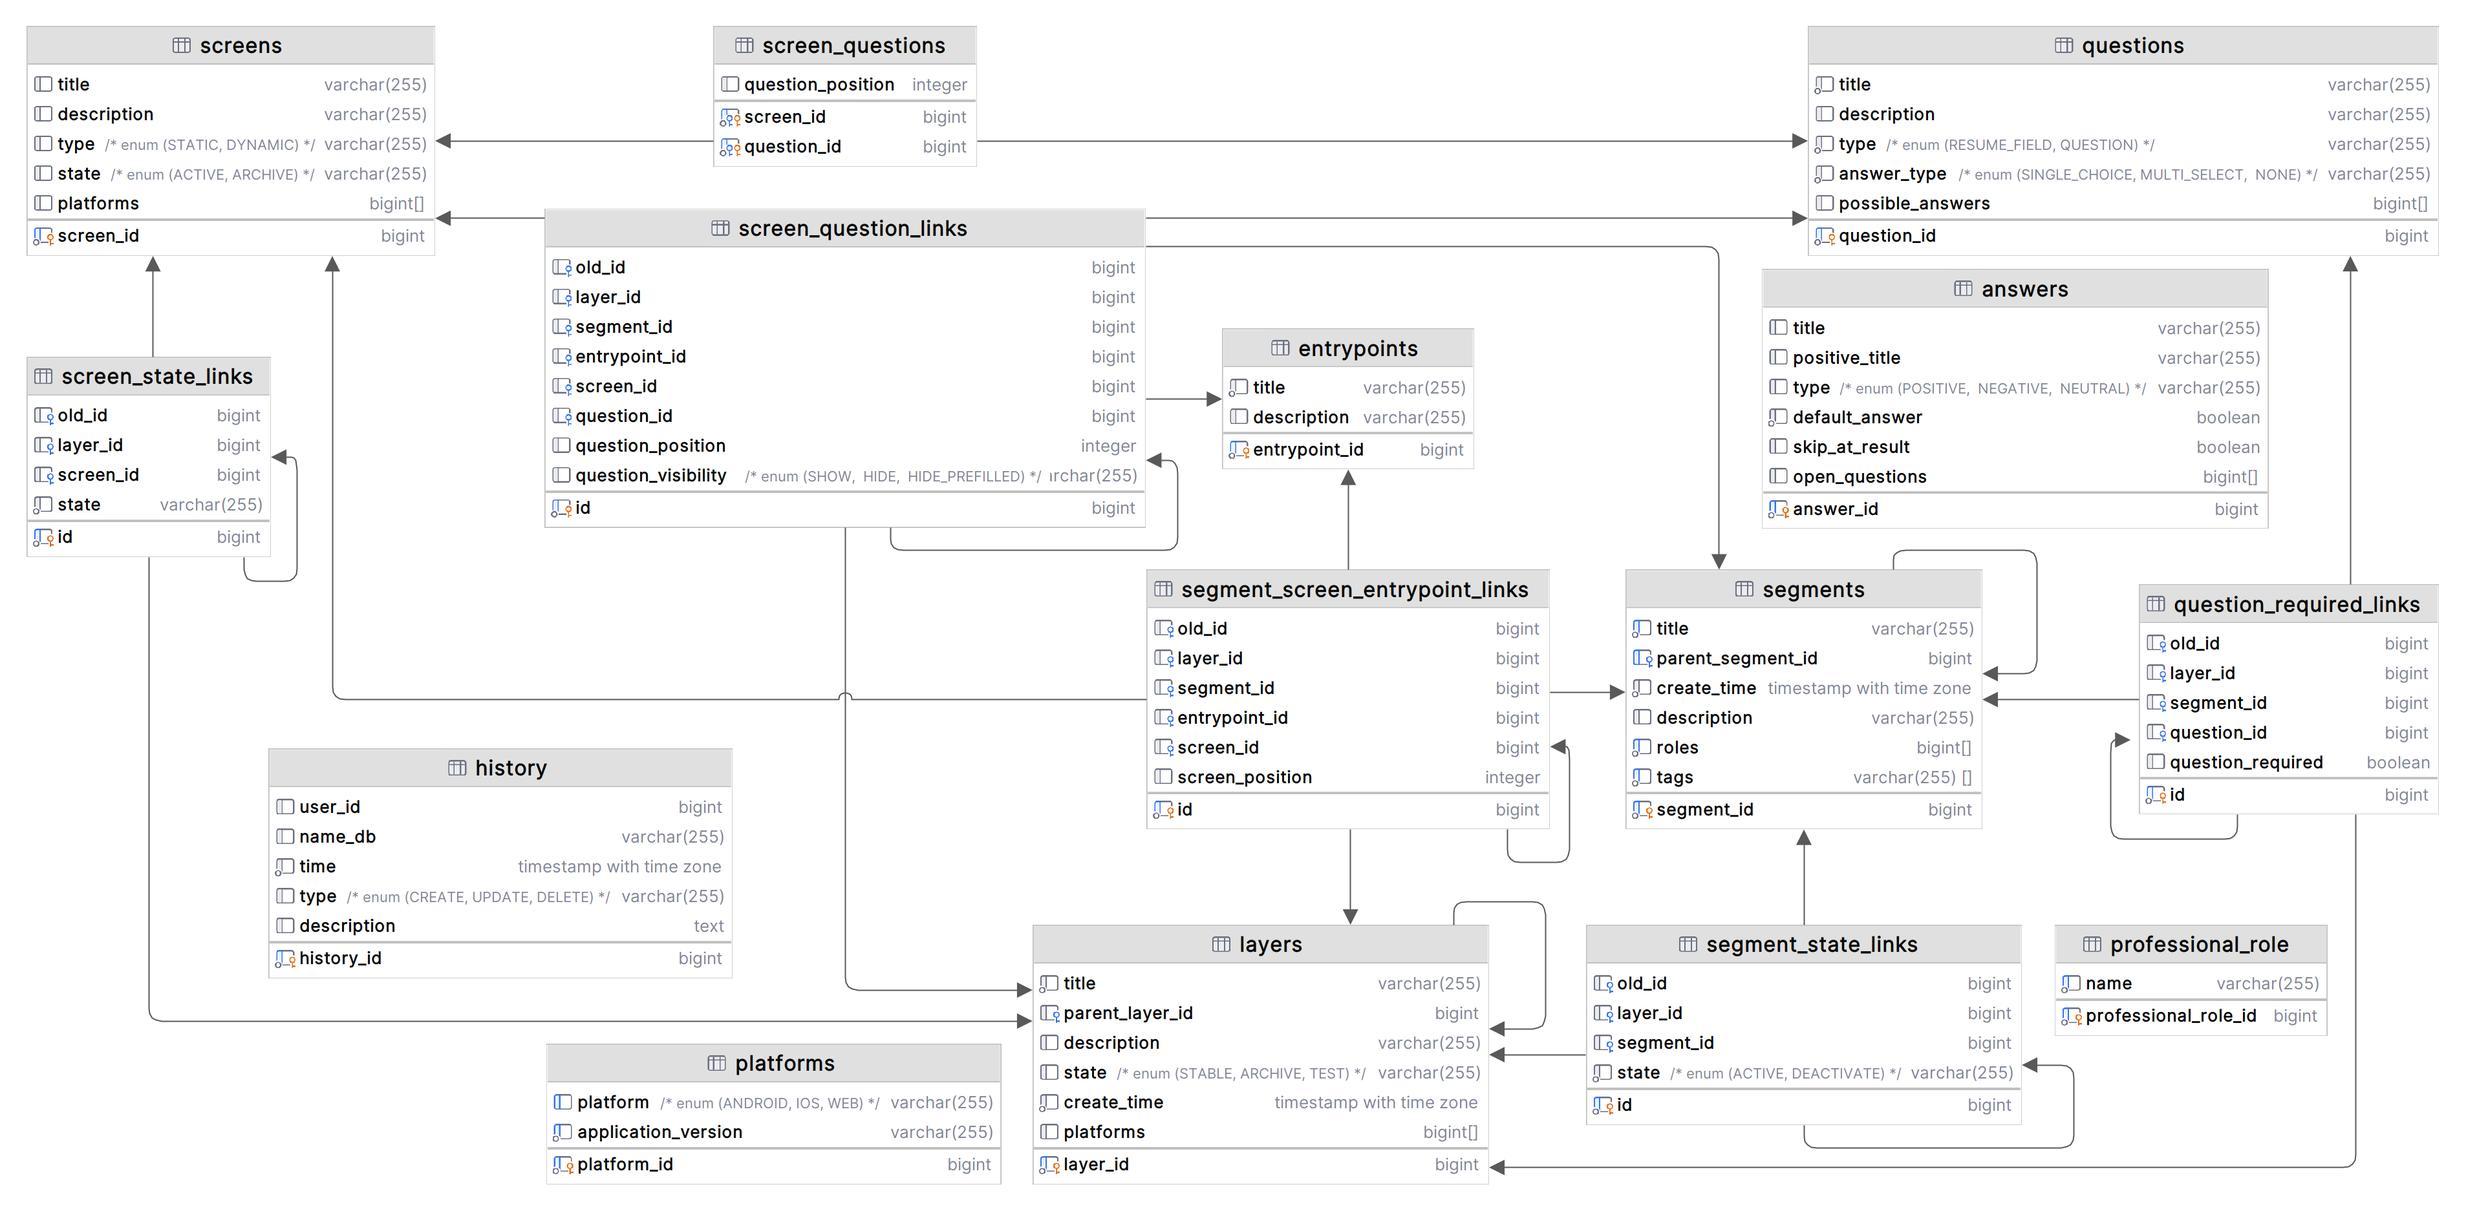
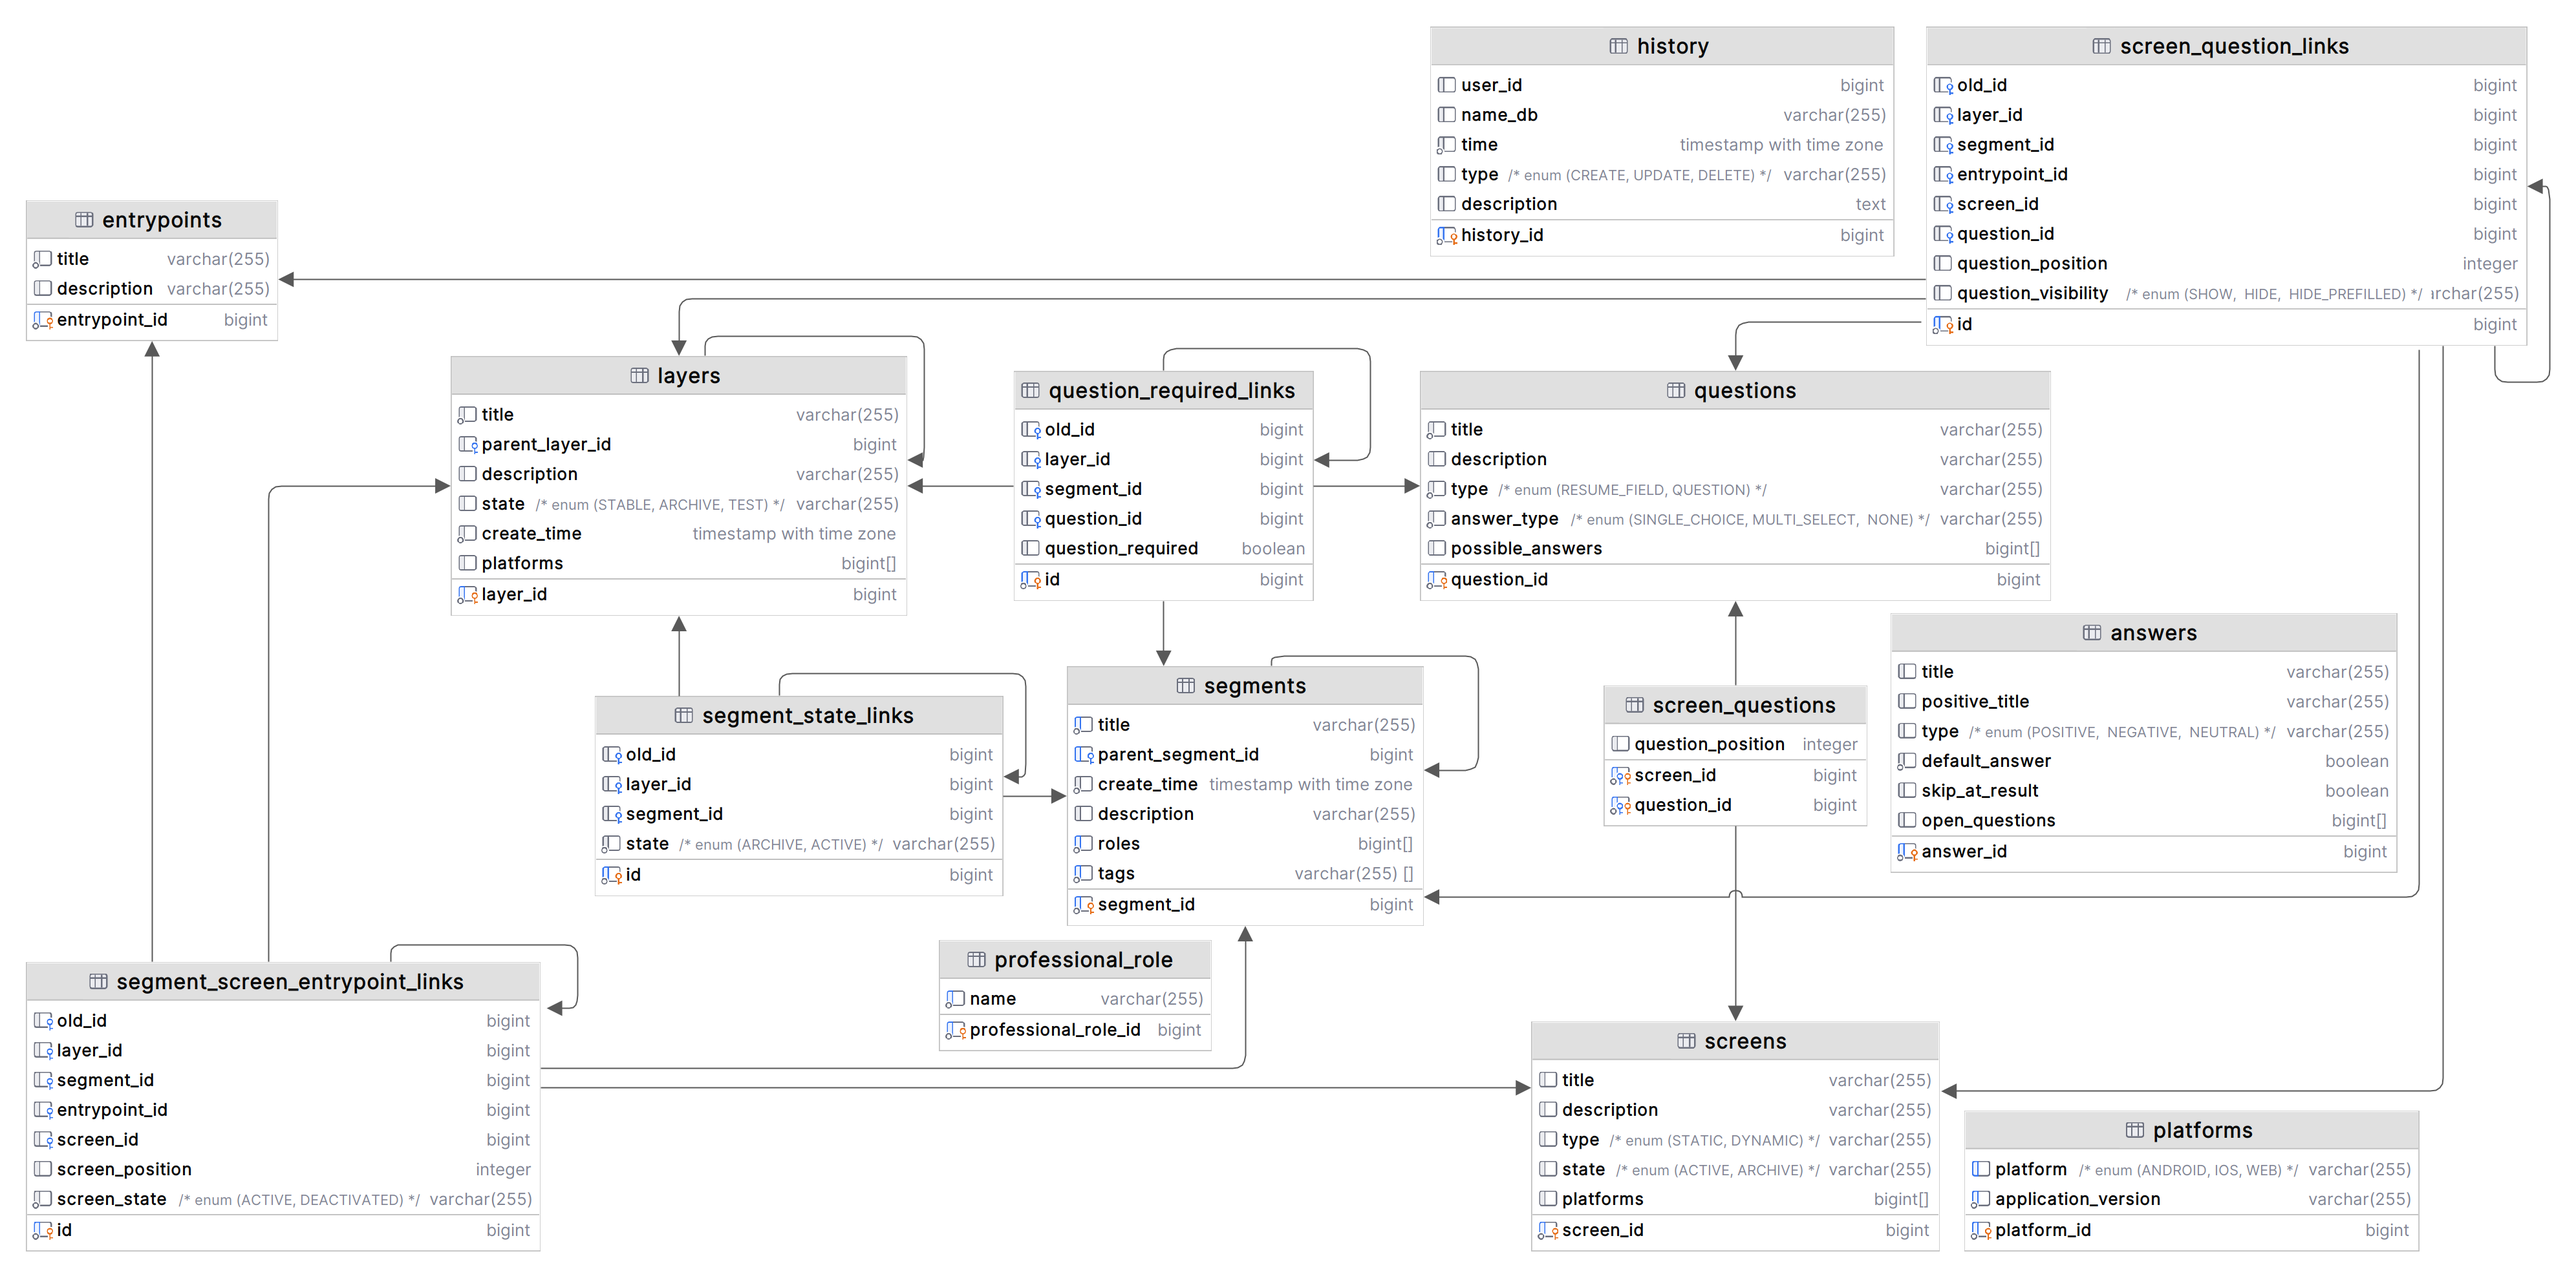
!13 обновил schema.sql, data.sql + entity, смена статуса ARCHIVE на DISABLE

diff --git a/src/main/java/ru/hhschool/segment/model/entity/SegmentScreenEntrypointLink.java b/src/main/java/ru/hhschool/segment/model/entity/SegmentScreenEntrypointLink.java
@@ -10,6 +10,7 @@ import javax.persistence.JoinColumn;
 import javax.persistence.ManyToOne;
 import javax.persistence.OneToOne;
 import javax.persistence.Table;
+import ru.hhschool.segment.model.enums.StateType;
 
 @Entity
 @Table(name = "segment_screen_entrypoint_links")
@@ -34,6 +35,8 @@ public class SegmentScreenEntrypointLink {
   private Screen screen;
   @Column(name = "screen_position", nullable = false)
   private Integer screenPosition;
+  @Column(name = "screen_state", nullable = false)
+  private StateType screenState;
 
   public SegmentScreenEntrypointLink() {
   }
@@ -44,7 +47,8 @@ public class SegmentScreenEntrypointLink {
       Segment segment,
       Entrypoint entrypoint,
       Screen screen,
-      Integer screenPosition
+      Integer screenPosition,
+      StateType screenState
   ) {
     this.oldSegmentScreenEntrypointLink = oldSegmentScreenEntrypointLink;
     this.layer = layer;
@@ -52,6 +56,7 @@ public class SegmentScreenEntrypointLink {
     this.entrypoint = entrypoint;
     this.screen = screen;
     this.screenPosition = screenPosition;
+    this.screenState = screenState;
   }
 
   public Long getId() {
@@ -62,11 +67,11 @@ public class SegmentScreenEntrypointLink {
     this.id = id;
   }
 
-  public SegmentScreenEntrypointLink getOldSegmentScreenEntrypointScreenLink() {
+  public SegmentScreenEntrypointLink getOldSegmentScreenEntrypointLink() {
     return oldSegmentScreenEntrypointLink;
   }
 
-  public void setOldSegmentScreenEntrypointScreenLink(SegmentScreenEntrypointLink oldSegmentScreenEntrypointLink) {
+  public void setOldSegmentScreenEntrypointLink(SegmentScreenEntrypointLink oldSegmentScreenEntrypointLink) {
     this.oldSegmentScreenEntrypointLink = oldSegmentScreenEntrypointLink;
   }
 
@@ -108,5 +113,13 @@ public class SegmentScreenEntrypointLink {
 
   public void setScreenPosition(Integer screenPosition) {
     this.screenPosition = screenPosition;
+  }
+
+  public StateType getScreenState() {
+    return screenState;
+  }
+
+  public void setScreenState(StateType screenState) {
+    this.screenState = screenState;
   }
 }

diff --git a/src/main/java/ru/hhschool/segment/model/enums/StateType.java b/src/main/java/ru/hhschool/segment/model/enums/StateType.java
@@ -1,6 +1,6 @@
 package ru.hhschool.segment.model.enums;
 
 public enum StateType {
-  ARCHIVE,
-  ACTIVE
+  ACTIVE,
+  DISABLE
 }
